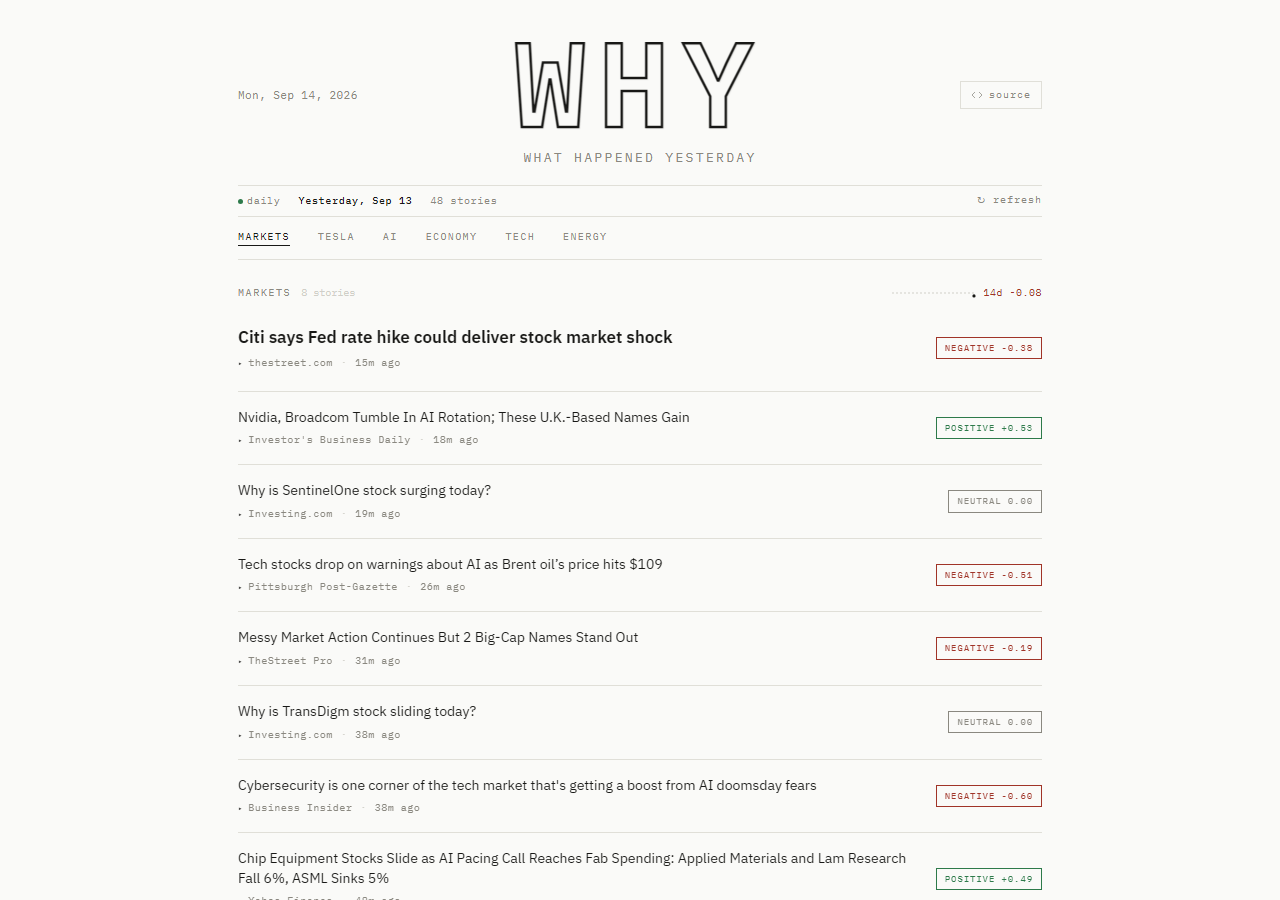
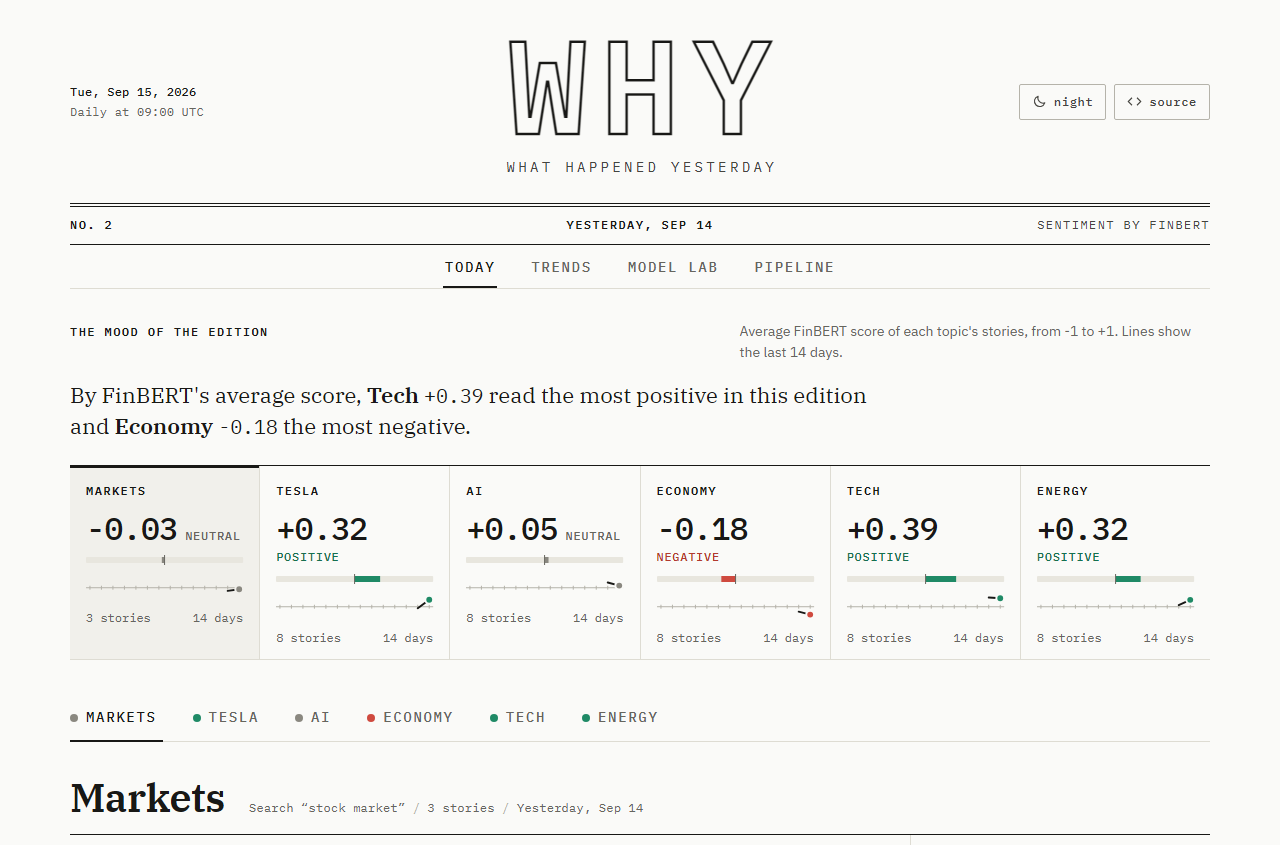
docs: document the quality filter, the backfill and the new pages

diff --git a/README.md b/README.md
@@ -4,31 +4,35 @@
 [![pipeline](https://github.com/Onodera-Gustavo/W-H-Y/actions/workflows/pipeline.yml/badge.svg)](https://github.com/Onodera-Gustavo/W-H-Y/actions/workflows/pipeline.yml)
 ![python](https://img.shields.io/badge/python-3.12%2B-blue)
 
-A daily data pipeline that collects market headlines from Google News RSS, keeps a deduplicated history in DuckDB and Parquet, scores sentiment with VADER and FinBERT, measures how much the two models agree, and publishes the result as a static, newspaper style site.
+A daily data pipeline that collects market headlines from Google News RSS, filters out template pages that are not news, keeps a deduplicated history in DuckDB and Parquet, scores sentiment with VADER and FinBERT, measures how much the two models agree, and publishes the result as a static, newspaper style site.
 
-**Live demo:** [onodera-gustavo.github.io/W-H-Y](https://onodera-gustavo.github.io/W-H-Y/) (live after GitHub Pages is enabled)
+**Live demo:** [onodera-gustavo.github.io/W-H-Y](https://onodera-gustavo.github.io/W-H-Y/)
 
-![WHY front page: topic tabs, headlines with sentiment badges and a 14 day trend line](docs/img/screenshot.png)
+![WHY front page: masthead and edition bar, a mood strip with one sentiment meter and sparkline per topic, topic tabs, the lead story and a rail with the label mix and trend](docs/img/screenshot.png)
+
+The site has four pages: **Today** (the edition), **Trends** (tone per topic over 7, 14 or 30 days), **Model Lab** (where VADER and FinBERT agree and where they do not) and **Pipeline** (how the edition is made and what the last run did).
 
 ## The problem
 
-Markets move on news, and a single morning already brings hundreds of headlines across topics. WHY answers two small questions every day: what were yesterday's headlines for each topic, and was their tone positive, neutral or negative? It also shows how that tone moves over two weeks.
+Markets move on news, and a single morning already brings hundreds of headlines across topics. WHY answers two small questions every day: what were yesterday's headlines for each topic, and was their tone positive, neutral or negative? It also shows how that tone moves over the last 30 days.
 
-The interesting part is the plumbing behind the page. Collection has to be polite and repeatable, re-running a day must not duplicate anything, the history has to live somewhere cheap and inspectable, and a sentiment model's output should be checked instead of simply trusted.
+The interesting part is the plumbing behind the page. Collection has to be polite and repeatable, re-running a day must not duplicate anything, the history has to live somewhere cheap and inspectable, junk has to be kept out without hiding news, and a sentiment model's output should be checked instead of simply trusted.
 
 ## Architecture
 
 ```mermaid
 flowchart LR
     rss["Google News RSS<br/>1 request per topic"] --> ingest["ingest<br/>feedparser"]
-    ingest --> raw[("raw JSONL<br/>date=YYYY-MM-DD")]
+    backfill["backfill, started by hand<br/>after: and before: dates"] --> ingest
+    ingest --> quality["quality filter<br/>template titles out"]
+    quality --> raw[("raw JSONL<br/>date=YYYY-MM-DD")]
     raw --> duck[("DuckDB in memory<br/>headlines, sentiment")]
     hist[("Parquet history<br/>monthly files")] -->|load| duck
     duck -->|export| hist
     duck <-->|score what is missing| models["VADER baseline<br/>FinBERT"]
-    duck --> json["JSON exports<br/>latest, trends, agreement"]
+    duck --> json["JSON exports<br/>latest, trends, agreement, status"]
     json --> pages["GitHub Pages<br/>static frontend"]
-    json --> flask["Flask, local only<br/>/api/news"]
+    json --> flask["Flask, local only<br/>/data and /api"]
     subgraph branch ["data branch"]
         raw
         hist
@@ -38,38 +42,51 @@ flowchart LR
 ### Daily run (GitHub Actions, 09:00 UTC)
 
 1. Check out `main`, plus the `data` branch into `data/` (created on the first run).
-2. `python -m why run --models vader,finbert`: one RSS request per topic, raw JSONL landing, load into DuckDB, score only the headlines that have no score yet, export Parquet and JSON.
-3. `python -m why compare`: VADER x FinBERT agreement over the whole history.
-4. Commit the raw JSONL and Parquet files to the `data` branch as `github-actions[bot]`.
-5. Put `frontend/` next to `site/data/` and deploy it to GitHub Pages.
+2. Only when the workflow is started by hand with `backfill_days` above 0: `python -m why backfill --days N --models vader,finbert` (see [Backfill](#decisions-and-trade-offs)).
+3. `python -m why run --models vader,finbert`: one RSS request per topic, quality filter, raw JSONL landing, load into DuckDB, score only the headlines that have no score yet, export Parquet, `latest.json`, `trends.json` and `status.json`.
+4. `python -m why compare`: VADER x FinBERT agreement over the whole history.
+5. Commit the raw JSONL and Parquet files to the `data` branch as `github-actions[bot]`.
+6. Copy all of `frontend/` next to `site/data/` and deploy it to GitHub Pages.
 
 ### Data layout
 
 | Path | Content |
 | --- | --- |
-| `data/raw/date=YYYY-MM-DD/<topic>.jsonl` | feed as collected: topic, title, source, link, published_at, collected_at, run_date |
+| `data/raw/date=YYYY-MM-DD/<topic>.jsonl` | feed as collected: topic, title, source, link, published_at, collected_at, run_date; backfilled records also carry `"collection": "backfill"` |
 | `data/history/headlines/YYYY-MM.parquet` | one row per story per topic, with dedup key and first/last seen |
 | `data/history/sentiment/YYYY-MM.parquet` | one row per story per model: label and score from -1 to +1 |
 | `site/data/latest.json` | the daily edition read by the frontend |
-| `site/data/trends.json` | daily mean sentiment and headline counts per topic, last 14 days |
-| `site/data/model_agreement.json` | percent agreement, Cohen's kappa, confusion matrix, score correlation |
+| `site/data/trends.json` | daily mean sentiment and headline counts per topic, last 30 days (`TREND_DAYS`) |
+| `site/data/model_agreement.json` | percent agreement, Cohen's kappa, confusion matrix and score correlation, plus the same numbers per topic, score pairs for a scatter plot and the latest disagreements |
+| `site/data/status.json` | the run that wrote it (mode, requests, new rows, filtered titles), history size, per topic, per day and top source counts, schedule and limits |
+
+Every export reads only headlines that pass the quality filter.
 
 ### Code layout
 
 ```
 why/
-  config.py        topics, limits, paths
-  ingest.py        Google News RSS to raw records (requests + feedparser)
+  config.py        topics, limits, schedule, paths
+  quality.py       quality rules: template titles that are not news
+  ingest.py        Google News RSS to raw records: search windows, parsing, paced requests
+  backfill.py      past run dates from date searches, resumable, aborts on 403 or 429
   raw.py           JSONL landing zone, idempotent per day
   dedup.py         link normalization and dedup key
-  warehouse.py     DuckDB tables, upsert, Parquet load and export
+  warehouse.py     DuckDB tables, upsert, quality flags, Parquet load and export
   sentiment.py     common interface, VADER and FinBERT adapters
   metrics.py       percent agreement, Cohen's kappa, confusion matrix
-  export.py        latest.json, trends.json, model_agreement.json
-  cli.py           py -m why run | compare
-backend/app.py     local Flask server: frontend + /api
-frontend/          static page (IBM Plex, no build step)
-tests/             offline pytest suite with an RSS fixture
+  export.py        latest.json, trends.json, model_agreement.json, status.json
+  cli.py           py -m why run | backfill | compare
+backend/app.py     local Flask server: frontend files, /data/*.json and /api
+frontend/          static site: plain HTML, CSS and ES modules, no build step
+  index.html       Today: mood strip, topic tabs, lead story, label mix, 14 day trend
+  trends.html      Trends: 7, 14 or 30 days per topic, daily label mix, heat strip
+  models.html      Model Lab: agreement figures, confusion matrix, score scatter, disagreements
+  pipeline.html    Pipeline: architecture diagram, last run, daily ingest, history, sources
+  assets/css/      why.css: design tokens, light and dark themes, components
+  assets/js/       common.js (data loading, site chrome), charts.js (SVG charts), one module per page
+docs/og-card.html  source of the link preview image, rendered to frontend/assets/img/og.png
+tests/             offline pytest suite with an RSS fixture and fake fetchers
 .github/workflows/ ci.yml, pipeline.yml
 ```
 
@@ -77,16 +94,22 @@ tests/             offline pytest suite with an RSS fixture
 
 **DuckDB and Parquet on a `data` branch instead of a database server.** About 50 headlines a day do not justify a running server or a paid bucket. DuckDB gives real SQL in process (window functions, `QUALIFY`, `COPY ... TO` Parquet), and Parquet is columnar, compressed and readable by pandas, Polars or Spark. Keeping the files on an orphan `data` branch turns every run into a commit that can be diffed, audited or rolled back, at no cost. The trade-offs: a single writer (the workflow uses a concurrency group), a branch that grows over time, and a design that would not hold millions of rows a day. To limit churn, the history is split into monthly files and written sorted, so a daily run normally rewrites only the current month and an unchanged month produces no git diff.
 
-**VADER as a baseline, FinBERT as the finance model, and their agreement measured.** VADER is a lexicon model: instant, deterministic and download free, but built for social media text. FinBERT ([ProsusAI/finbert](https://huggingface.co/ProsusAI/finbert)) is BERT fine-tuned on financial news sentences and much heavier (PyTorch plus a ~440 MB model), so it runs only in GitHub Actions, on CPU, with the model cached. Instead of assuming either one is right, `why compare` reports percent agreement, Cohen's kappa (agreement corrected for chance), the confusion matrix and the correlation between scores for every headline both models scored. The site shows FinBERT when available and VADER otherwise, and hovering a badge shows both.
+**VADER as a baseline, FinBERT as the finance model, and their agreement measured.** VADER is a lexicon model: instant, deterministic and download free, but built for social media text. FinBERT ([ProsusAI/finbert](https://huggingface.co/ProsusAI/finbert)) is BERT fine-tuned on financial news sentences and much heavier (PyTorch plus a ~440 MB model), so it runs only in GitHub Actions, on CPU, with the model cached. Instead of assuming either one is right, `why compare` reports percent agreement, Cohen's kappa (agreement corrected for chance), the confusion matrix and the correlation between scores for every headline both models scored, overall and per topic, and lists the most recent headlines where the two labels differ. The site shows FinBERT when available and VADER otherwise, a badge shows both scores on hover or keyboard focus, and the Model Lab page draws the whole comparison.
+
+**A narrow quality filter instead of trusting the feed.** Google News search also returns pages generated from templates: Zacks style screeners syndicated by Yahoo Finance ("Are Investors Undervaluing Global Partners (GLP) Right Now?"), stock quote pages, market size press releases, and even a CNN page whose template never rendered ("symbol__ Stock Quote Price and Forecast"). In the first two editions they were 7 of 125 stored headlines, and in an edition capped at eight per topic they push real news out and bend a topic's sentiment. `why/quality.py` holds four documented rules, each describing the shape of a template (a ticker in parentheses inside a fixed screener sentence, a double underscore or unfilled placeholder, a title made only of quote page words, a market size release signed by a research firm), never a topic or a publisher. The filter runs at ingest before the per topic cap, so a topic still gets up to eight real headlines, and again whenever exports are built: titles stored before a rule existed stay in the raw files and Parquet, untouched, but are no longer scored and never reach `latest`, `trends`, the agreement report or `status`. Tests pin every rule to real template titles and to near-miss real headlines that must survive; when in doubt a rule does not match.
+
+**Backfill with the daily run's semantics.** A trend chart with one day on it says nothing, so the history can be seeded once with `python -m why backfill --days N`. Partition `date=R` is the run of morning R and its edition reads "Yesterday, R-1", so a backfilled run date R holds the headlines published on UTC day R-1. Google News reads `after:X before:Y` as calendar dates in US Pacific time, half open: checked by hand, `after:2026-09-09 before:2026-09-10` returned items published from 07:00 UTC on the 9th to 07:00 UTC on the 10th, and `after:D before:D` returned nothing. A UTC day therefore needs `after:R-2 before:R`, a 48 hour window, and the pipeline keeps only the items published on R-1 (in the first live check, 42 to 85 of each topic's items fell outside the day). Then the usual steps apply: quality filter, duplicate links removed, newest first, at most eight per topic. Run dates go from today-N to today-1 and any date that already has a raw partition is skipped, so a live run is never overwritten and an interrupted backfill resumes. Backfilled records keep the raw schema with their real `collected_at`, plus `"collection": "backfill"` (the dedup key ignores it, so idempotency is unchanged). After collecting, every raw partition is loaded, missing scores are computed and all exports are rebuilt, with the same code path as a daily run.
 
 **Idempotency and dedup.**
 - Raw files are the source of truth. A day's partition is merged by dedup key and written sorted and atomically, so re-running a day produces identical files. A past date can be replayed with `--date` without network, for example to rebuild the history.
-- The dedup key is a hash of the normalized link (tracking parameters such as `oc` and `utm_*`, fragment, `www`, scheme and trailing slash ignored), with title + source as the fallback when there is no usable link. A story seen on two mornings is stored once, with `first_seen_at` and `last_seen_at`.
+- The dedup key is a hash of the normalized link (tracking parameters such as `oc` and `utm_*`, fragment, `www`, scheme and trailing slash ignored), with title + source as the fallback when there is no usable link. Repeated links are also dropped before the per topic cap. A story seen on two mornings is stored once, with `first_seen_at` and `last_seen_at`.
 - Scores are keyed by story and model, and a run only scores what is missing. Re-runs cost nothing, a story filed under two topics is scored once, and a newly added model backfills the whole history on its first run.
 
-**A static site instead of an always-on API.** The frontend only reads JSON files, so GitHub Pages hosts it for free. Flask exists for local development and serves the same data under `/api`.
+**A static site instead of an always-on API.** The frontend only reads JSON files, so GitHub Pages hosts it for free. It is four pages of plain HTML, CSS and ES modules with no framework, build step or chart library: every chart is hand written SVG that follows the light and dark themes through CSS variables, and all text coming from the feed is escaped before it reaches the page. The trade-off is more code in `charts.js` than a library would need, in exchange for no dependency to update and a page that loads only fonts and JSON. Flask exists for local development: it serves the same files under `/data`, at the same relative URLs as the published site, and under `/api`.
 
-**Politeness.** One request per topic per run, once a day, a User-Agent that identifies the project and no retry loop. Google's `when:1d` search operator keeps the feed inside the last 24 hours (in a spot check, 100 of 100 entries were recent with it, 72 of 100 without it).
+**Politeness.** The daily run makes six requests a day: one per topic, once a day, one after the other, with a User-Agent that identifies the project and no retry loop. Google's `when:1d` search operator keeps the feed inside the last 24 hours (in a spot check, 100 of 100 entries were recent with it, 72 of 100 without it). If the feed ever answers HTTP 403 or 429, the run stops requesting immediately and loads what it already has.
+
+The backfill is the one exception, and it is started by hand only (the `backfill_days` input of the pipeline workflow, never the schedule). It exists so the trend chart and the agreement report have a history from the first week instead of filling up one day at a time. It costs one request per topic per backfilled day, so about six requests a day: a 30 day backfill is about 180 requests. Requests are strictly sequential, 3 seconds apart by default (`--sleep`), so 30 days take about ten minutes, with the same User-Agent and no retries. The first HTTP 403 or 429 aborts the whole backfill with a non-zero exit, keeping the days already written; a failure on a single topic is logged and skipped; the total request count is logged at the end. Building it took 8 live requests: 2 to confirm how the date operators behave and a 6 request smoke test of one day.
 
 ## Run locally
 
@@ -114,8 +137,13 @@ python -m why compare                      # writes site/data/model_agreement.js
 | Command or variable | What it does |
 | --- | --- |
 | `python -m why run --date 2026-09-14` | replays a past day from its raw partition, without network |
+| `python -m why backfill --days 7` | fetches run dates today-7 to today-1 (6 requests per missing day, 3 seconds apart), skips days already stored, then loads, scores and exports; exit code 1 on HTTP 403 or 429 |
+| `--models vader,finbert` | models to score with, for `run` and `backfill` (default: `vader`) |
+| `--sleep 5` | pause in seconds between two backfill requests (default: 3) |
 | `WHY_DATA_DIR`, `WHY_SITE_DATA_DIR` | move raw/history and the JSON exports elsewhere |
 | `WHY_DEBUG=1`, `PORT` | Flask debug mode and port |
+
+The local server answers `GET /api/news`, `/api/news/<topic>`, `/api/trends`, `/api/agreement` and `/api/status`, and `GET /data/<name>.json` for the four exports. When an export file is missing it is built from the Parquet history.
 
 ## Tests
 
@@ -124,32 +152,37 @@ ruff check .
 pytest
 ```
 
-The suite runs offline (a fixture fails any real HTTP call) in a few seconds and covers:
+The suite runs offline (a fixture fails any real HTTP call) in under a minute and covers:
 
 - RSS parsing from a local XML fixture, dates without a timezone or invalid, titles that contain " - ", duplicate links
+- the quality rules on real template titles and on near-miss real headlines that must be kept, the filter running before the per topic cap, and flagged titles hidden from every export
+- the backfill with a fake fetcher: date search window, UTC day filter, run dates that already have a partition skipped, pacing between requests, abort on HTTP 429 or 403, per topic failures skipped, trends and status seeing the backfilled days
 - raw partition idempotency and dedup across two runs, including a Parquet round trip
 - VADER thresholds and the FinBERT adapter with a fake `transformers` pipeline (no download)
-- the export formats the frontend reads, trend aggregation, Cohen's kappa on a textbook example
-- the CLI end to end and the Flask API through its test client
+- the export formats the frontend reads (including `status.json`, agreement per topic, score pairs and disagreements), trend aggregation, Cohen's kappa on a textbook example
+- the CLI end to end, and the Flask API, `/data` files and nested frontend files through its test client
 
 CI runs lint and tests on every push to `main` and on pull requests.
 
 ## Limitations
 
 - **Headlines only.** Sentiment is scored on titles, not article bodies. A headline can be partial, ironic or clickbait.
-- **Google News RSS terms.** Using the feed is subject to Google's Terms of Service. This is a non-commercial study project: it stores titles and links only, links back to the publishers and makes six requests a day. Review the terms before reusing the data or running it at a larger scale. WHY is not affiliated with Google.
+- **Google News RSS terms.** Using the feed is subject to Google's Terms of Service. This is a non-commercial study project: it stores titles and links only, links back to the publishers and makes six requests a day, plus a one-off backfill of about six requests per day covered. Review the terms before reusing the data or running it at a larger scale. WHY is not affiliated with Google.
+- **The quality filter is a set of hand-written rules.** It only knows the templates it was written for, so a new template gets through until a rule is added, and a real title shaped exactly like a template would be hidden. Truncated titles ("... market share desp...") are kept.
+- **Backfilled days are a comparable sample, not an identical one.** The daily run sees the 24 hours before 09:00 UTC; a backfilled day covers a whole UTC day, from a date search that returns at most 100 items chosen by Google's relevance. Some items carry only a date, stamped 07:00 UTC, and undated items cannot be placed on a day, so the backfill drops them.
 - **VADER is not trained for finance.** Its lexicon misses market phrasing: it scores "Earnings beat estimates" as neutral and "Shares fall short of expectations" as positive. That gap is the reason FinBERT and the agreement report exist.
 - **Agreement is not accuracy.** There are no human labels, so the report says how often the models agree, not which one is right.
 - **Dedup is by link.** The same story published by several outlets counts once per outlet.
-- **Daily granularity.** Trends group headlines by the UTC date they were first seen, not by publication time.
+- **Daily granularity.** Trends group headlines by the run date they were first seen, not by publication time.
 
 ## Roadmap
 
 - Hand-label a sample of headlines to measure accuracy, not only agreement
 - Near-duplicate detection (same story, different outlets) based on title similarity
-- Data quality checks as a pipeline step: row counts per topic, freshness, schema
+- Alerts on top of `status.json`: missing topics, stale runs, a jump in filtered titles
+- Quality rules checked against hand labels, so false positives are measured instead of assumed away
 - More sources behind the same ingest interface (publisher RSS feeds, Reddit)
-- Ticker level pages and a longer trend window
+- Ticker level pages
 
 ## Credits
 
